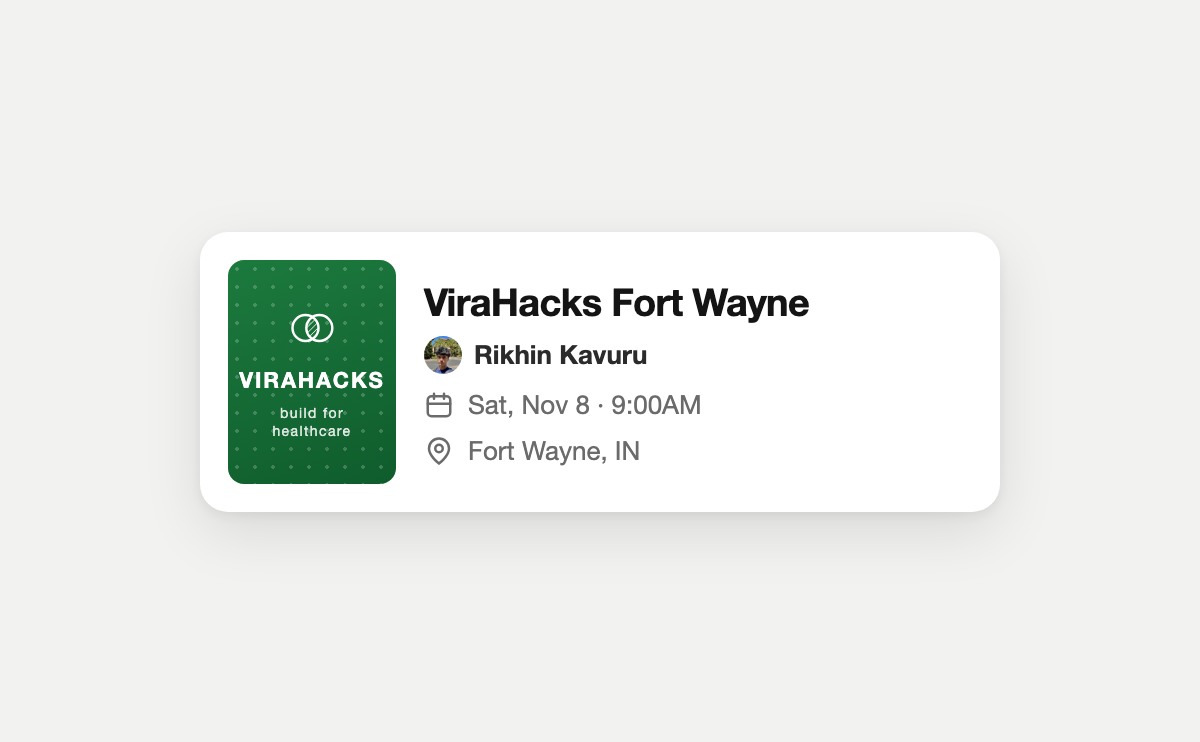
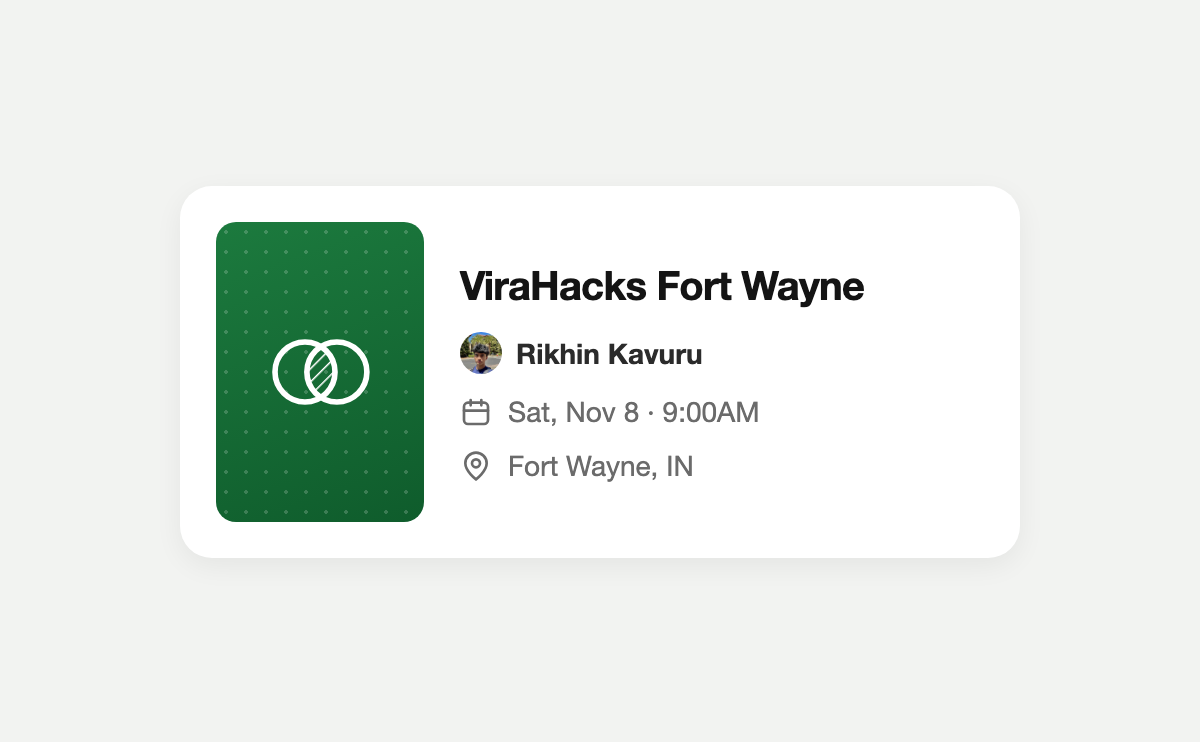
Kominko bio spacing, email and X hover cards, roomier ViraHacks card
The bio was packed because the paragraph ran to 34rem while kominko's is about
27rem; at our width the lines were long enough that the inline postcards had
nowhere to breathe. Narrowed to match, and the postcard frame gains a hairline
ring. A beige plate alone was nearly invisible against a white page, which is
why the cards looked borderless next to the reference.

Bio copy updated: Yale is now the "previously", since the Broad role is
current, and the closing line is Telo. Telo's inline mark is a new
transparent-background black version, because the tile artwork carries its own
white plate and would have sat as a square on the page.

Email and X icons gain hover cards, matching the existing three. The email
reference image did not come through, so the card follows the same shape as the
others: avatar, name, address, action button. X and LinkedIn now use the
supplied profile photo.

ViraHacks bento card reworked: the poster is the mark alone with no wordmark,
the ticket is taller, spacing is opened up, and the shadow is much lighter.

Also: mail address is now rikhin@virahacks.com so the mailto matches the card,
and "Get in touch" points at cal.com. The label stays as-is rather than
switching to "Book a call".

Changed region(s): [[0.1542, 0.279, 0.8325, 0.7439], [0.8325, 0.372, 0.8633, 0.6819]]

diff --git a/lib/content.ts b/lib/content.ts
@@ -4,14 +4,14 @@ export const profile = {
   fullName: "Rikhin Kavuru",
   handle: "@rikhin.kavuru",
   avatar: "/avatar.jpg",
-  email: "rikhinkavuru@gmail.com",
+  email: "rikhin@virahacks.com",
   github: "https://github.com/rikhinkavuru",
   linkedin: "https://www.linkedin.com/in/rikhin-kavuru-29sb0926/",
   /** Set to your profile URL to show the Instagram icon. */
   instagram: "https://www.instagram.com/rikhin.kavuru/",
   twitter: "https://x.com/rikhinkavuru",
   /** Set to a cal.com or Calendly URL to enable the "Book a call" button. */
-  bookingUrl: "",
+  bookingUrl: "https://cal.com/rikhinkavuru/30min",
 };
 
 /**
@@ -33,6 +33,8 @@ export const marks: Record<string, Mark> = {
   adaptyv: { src: "/logos/adaptyv.png", tint: "#5aa8cc", fallbackBg: "#5aa8cc" },
   purdue: { src: "/logos/purdue.png", tint: "#9d7f3d", fallbackBg: "#c7b28a" },
   telo: { src: "/logos/telo.png", tint: "#111111", fallbackBg: "#111111" },
+  /** Transparent-background mark, for setting inline on a white page. */
+  teloMark: { src: "/logos/telo-mark.png", tint: "#111111", fallbackBg: "#111111" },
   inkr: { src: "/logos/inkr.png", tint: "#f4501e", fallbackBg: "#f4501e" },
   linkd: { src: "/logos/linkd.png", tint: "#d32b25", fallbackBg: "#eaddcb" },
   virahacks: { src: "/logos/virahacks.png", tint: "#17843f", fallbackBg: "#17843f" },
@@ -120,9 +122,23 @@ export const socialCards = {
     name: "Rikhin Kavuru",
     headline: "Machine Learning Engineer at Convexia",
     location: "Fort Wayne, Indiana",
-    avatar: "/avatar.jpg",
+    avatar: "/social/x-avatar.jpg",
     /** Fill in to show "· 500+ connections". */
     connections: null as string | null,
+  },
+  x: {
+    handle: "rikhinkavuru",
+    name: "Rikhin Kavuru",
+    bio: "ml for biology. building Telo.",
+    avatar: "/social/x-avatar.jpg",
+    /** Fill in to show the followers/following row. */
+    followers: null as number | null,
+    following: null as number | null,
+  },
+  email: {
+    address: "rikhin@virahacks.com",
+    name: "Rikhin Kavuru",
+    avatar: "/avatar.jpg",
   },
 };
 

diff --git a/components/SocialCard.tsx b/components/SocialCard.tsx
@@ -159,6 +159,70 @@ export function GitHubCard() {
   );
 }
 
+export function XCard() {
+  const c = socialCards.x;
+  const hasStats = c.followers !== null || c.following !== null;
+
+  return (
+    <div className={`${shell} p-3`}>
+      <div className="flex items-center gap-3">
+        <img
+          src={c.avatar}
+          alt=""
+          className="block size-11 shrink-0 rounded-full object-cover"
+        />
+
+        <div className="min-w-0 flex-1">
+          <p className="truncate text-sm font-semibold text-neutral-900">
+            {c.name}
+          </p>
+          <p className="truncate text-sm text-neutral-500">@{c.handle}</p>
+        </div>
+
+        <span className="shrink-0 rounded-full bg-neutral-900 px-3 py-1.5 text-xs font-semibold text-white">
+          Follow
+        </span>
+      </div>
+
+      <p className="mt-2 text-sm leading-snug text-neutral-700">{c.bio}</p>
+
+      {hasStats && (
+        <div className="mt-3 flex items-center gap-4 text-xs text-neutral-700">
+          <Stat value={c.following} label="Following" />
+          <Stat value={c.followers} label="Followers" />
+        </div>
+      )}
+    </div>
+  );
+}
+
+export function EmailCard() {
+  const c = socialCards.email;
+
+  return (
+    <div className={`${shell} p-3`}>
+      <div className="flex items-center gap-3">
+        <img
+          src={c.avatar}
+          alt=""
+          className="block size-11 shrink-0 rounded-full object-cover"
+        />
+
+        <div className="min-w-0 flex-1">
+          <p className="truncate text-sm font-semibold text-neutral-900">
+            {c.name}
+          </p>
+          <p className="truncate text-sm text-neutral-500">{c.address}</p>
+        </div>
+      </div>
+
+      <div className="mt-3 rounded-lg bg-neutral-900 py-1.5 text-center text-sm font-semibold text-white">
+        Compose
+      </div>
+    </div>
+  );
+}
+
 function Stat({ value, label }: { value: number | null; label: string }) {
   if (value === null) return null;
 

diff --git a/components/Socials.tsx b/components/Socials.tsx
@@ -1,10 +1,12 @@
 import { profile } from "@/lib/content";
 import NowPlaying from "./NowPlaying";
 import {
+  EmailCard,
   GitHubCard,
   HoverCard,
   InstagramCard,
   LinkedInCard,
+  XCard,
 } from "./SocialCard";
 
 const iconClass =
@@ -67,13 +69,15 @@ export default function Socials() {
         {...(hasBooking ? { target: "_blank", rel: "noreferrer" } : {})}
         className="inline-flex h-9 items-center justify-center gap-1.5 rounded-xl bg-primary px-3 text-sm font-medium text-bg transition-opacity hover:opacity-80"
       >
-        {hasBooking ? "Book a call" : "Get in touch"}
+        Get in touch
         <ArrowIcon />
       </a>
 
-      <a href={mailto} aria-label="Email" className={iconClass}>
-        <MailIcon />
-      </a>
+      <HoverCard card={<EmailCard />}>
+        <a href={mailto} aria-label="Email" className={iconClass}>
+          <MailIcon />
+        </a>
+      </HoverCard>
 
       <HoverCard card={<InstagramCard />}>
         <a
@@ -100,15 +104,17 @@ export default function Socials() {
       </HoverCard>
 
       {profile.twitter && (
-        <a
-          href={profile.twitter}
-          target="_blank"
-          rel="noreferrer"
-          aria-label="X"
-          className={iconClass}
-        >
-          <XIcon />
-        </a>
+        <HoverCard card={<XCard />}>
+          <a
+            href={profile.twitter}
+            target="_blank"
+            rel="noreferrer"
+            aria-label="X"
+            className={iconClass}
+          >
+            <XIcon />
+          </a>
+        </HoverCard>
       )}
 
       <HoverCard card={<GitHubCard />}>

diff --git a/app/page.tsx b/app/page.tsx
@@ -29,7 +29,7 @@ export default function Home() {
           {/* PLACEHOLDER COPY, structured like kominko's: one paragraph with
               the postcards and company marks set inline. */}
           <StaggerItem as="section" className="pt-6">
-            <p className="max-w-[34rem] text-base leading-[1.75] font-medium tracking-[-0.02em] text-primary sm:text-xl">
+            <p className="max-w-[27rem] text-base leading-[1.75] font-medium tracking-[-0.02em] text-primary sm:text-xl">
               17 y/o engineer from{" "}
               <span className="whitespace-nowrap">
                 Fort Wayne, Indiana
@@ -39,9 +39,9 @@ export default function Home() {
                 now in San Francisco
                 {showSf && <Postcard card={postcards.sf} tight />}.
               </span>{" "}
-              Previously at <MarkedName name="broad" label="Broad Institute" />.
-              Now working at <MarkedName name="convexia" label="Convexia" /> on
-              the ML team.
+              Previously comp bio research at{" "}
+              <MarkedName name="yale" label="Yale" />. Slingin drug
+              microfactories @ <MarkedName name="teloMark" label="Telo" />.
             </p>
           </StaggerItem>
 

diff --git a/components/Postcard.tsx b/components/Postcard.tsx
@@ -86,7 +86,7 @@ export default function Postcard({
         type="button"
         onClick={() => setOpen(true)}
         aria-label={`View postcard of ${card.alt}`}
-        className={`relative my-[-0.2em] inline-block aspect-3/2 h-[1.8em] cursor-pointer bg-[#efece5] p-[3px] align-middle shadow-md focus-visible:outline-2 focus-visible:outline-offset-2 focus-visible:outline-primary dark:bg-[#3a3733] ${tight ? "ml-1.5" : "mx-1.5"}`}
+        className={`relative my-[-0.2em] inline-block aspect-3/2 h-[1.8em] cursor-pointer bg-[#f0ece3] p-[3px] align-middle shadow-md ring-1 ring-black/10 focus-visible:outline-2 focus-visible:outline-offset-2 focus-visible:outline-primary dark:bg-[#3a3733] ${tight ? "ml-1.5" : "mx-1.5"}`}
         style={{ borderRadius: 4 }}
         initial={{ rotate: card.rotate }}
         whileHover={{ rotate: 0, scale: 1.35, y: -2 }}

diff --git a/ASSETS.md b/ASSETS.md
@@ -104,17 +104,16 @@ animate, and they hold still when playback is paused.
 Hovering an icon opens a profile preview. Data lives in `socialCards`
 (lib/content.ts).
 
-GitHub's numbers are real, pulled from its public API. Instagram and LinkedIn
-have no public API, so their stats are `null` on purpose rather than invented:
-fill in `posts` / `followers` / `following` and `connections` and the cards
-grow those rows. The GitHub avatar is the default identicon at
+GitHub's numbers are real, pulled from its public API. Instagram, LinkedIn, and
+X have no public API, so their stats are `null` on purpose rather than invented:
+fill in `posts` / `followers` / `following` and `connections` and the cards grow
+those rows. The email card is a plain address preview. The GitHub avatar is the default identicon at
 `public/social/github-avatar.jpg` until you set a photo on GitHub.
 
-## 6. Book a call
+## 6. Book a call — done
 
-Set `profile.bookingUrl` in `lib/content.ts` to a cal.com or Calendly link. The
-primary button switches from "Get in touch" (mailto) to "Book a call", and email
-moves into the icon row beside GitHub and LinkedIn.
+"Get in touch" links to cal.com/rikhinkavuru/30min via `profile.bookingUrl`.
+The label stays "Get in touch" regardless; email has its own icon in the row.
 
 ## 7. Bento artwork
 
